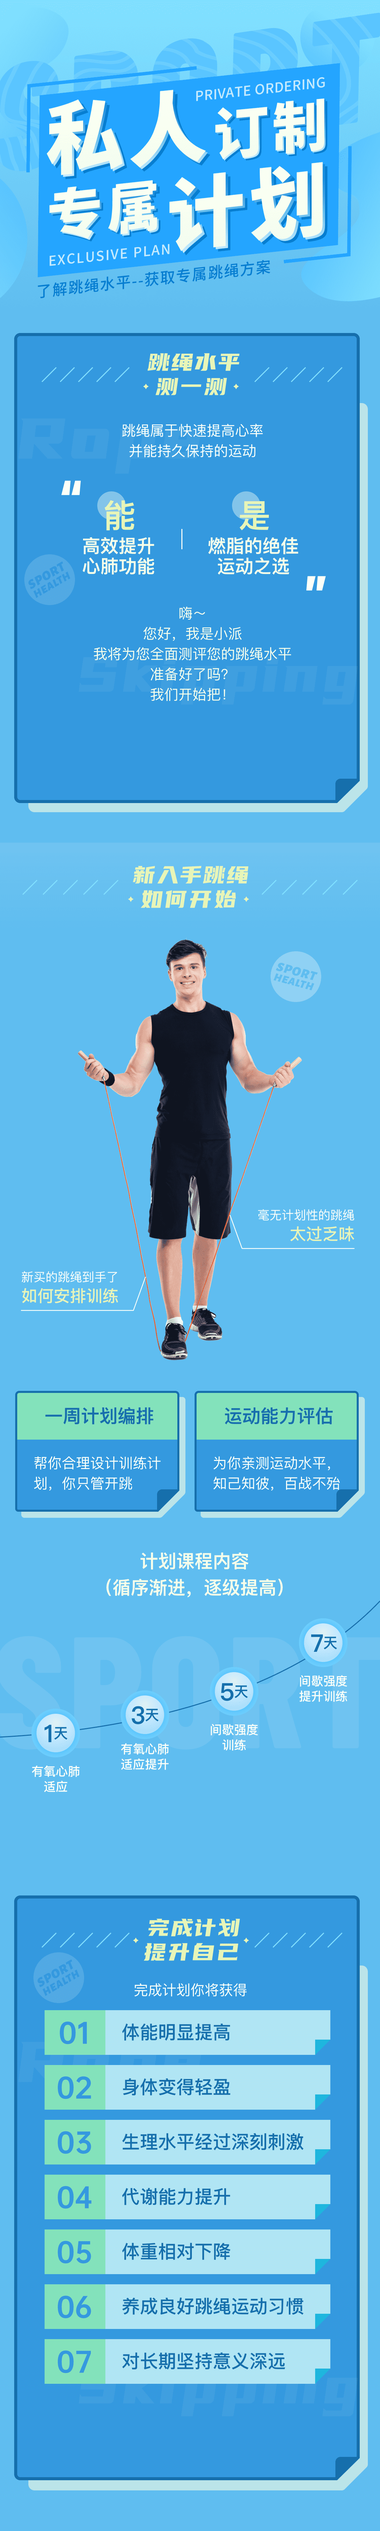
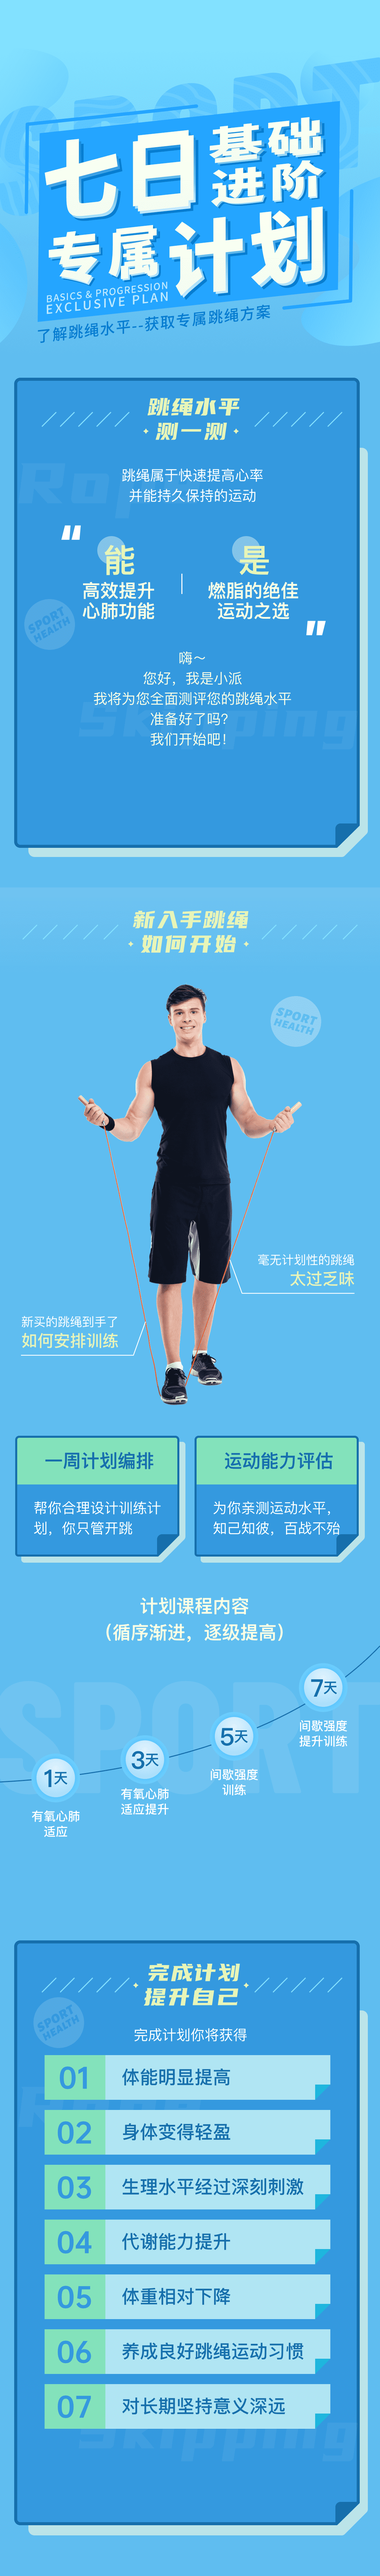
cg

diff --git a/weekPlan/src/view/index.vue b/weekPlan/src/view/index.vue
@@ -22,7 +22,8 @@
 <script>
     const defaultSettings = require('../settings.js');
     import {
-        NavBar,Toast
+        NavBar,
+        Toast
     } from 'vant';
     import {
         isAndroid,
@@ -32,6 +33,7 @@
         getIndexData,
         getClassPlan
     } from '@a/api'
+    import { getQueryString } from "@u/tool";
     export default {
         components: {
             [NavBar.name]: NavBar,
@@ -68,7 +70,12 @@
             window.addEventListener('scroll', this.scrollFn);
         },
         created() {
-            this.initData();
+            if(getQueryString('isShare')){
+                this.params.bf2 = this.params.bf3 = true;
+            }else{
+               this.initData(); 
+            }
+            
         },
         beforeRouteLeave(to, from, next) {
             this.destroyed();
@@ -113,7 +120,7 @@
                         /**
                          * 再次测试完成
                          */
-                        this.params.bt1 = '查看测试报告';
+                        this.params.bt1 = '查看再次测试报告';
                         this.params.bt2 = '查看专属课程';
                         this.params.bf3 = true;
                     }
@@ -142,12 +149,36 @@
             },
             shareWeekPlan() {
                 this.$interaction.sharePage({
-                    title: "专属计划",
-                    description: "快来一起创建专属计划",
+                    title: "快来一起制定您的专属计划",
+                    description: "跳绳水平测一测，私人定制专属计划",
                     url: defaultSettings.host + 'h5/h5V2/weekPlan/#/index?isShare=1'
                 })
             },
+            goInto() {
+				let linkUrl = '';
+				if (/(iPhone|iPad|iPod|iOS)/i.test(navigator.userAgent)) { //判断iPhone|iPad|iPod|iOS
+					linkUrl = "https://lstemp.laisitech.com?actionType=weekplan"
+				} else if (/(Android)/i.test(navigator.userAgent)) { //判断Android
+					if (navigator.userAgent.toLowerCase().indexOf('micromessenger') !== -1) { //微信
+						linkUrl = "https://a.app.qq.com/o/simple.jsp?pkgname=com.lstech.rehealth"
+					} else {
+						linkUrl = "rehealth://weekplan"
+					}
+				}
+				var a = document.createElement('a');
+				a.setAttribute('href', linkUrl);
+				a.setAttribute('id', 'js_a');
+				//防止反复添加
+				if (document.getElementById('js_a')) {
+					document.body.removeChild(document.getElementById('js_a'));
+				}
+				document.body.appendChild(a);
+				a.click();
+			},
             startTest() {
+                 if(getQueryString('isShare')){
+                     this.goInto()
+                 }
                 if (!this.finished) return;
                 //前去测评
                 if (this.statusCode == '0001') {
@@ -177,12 +208,15 @@
             getPlan() {
                 //前去训练计划
                 if (this.statusCode == "0001" && this.finished) {
+                    Toast({
+                        message: "您还未进行测评",
+                    });
                     return
                 }
                 if (this.statusCode == "0002" && this.finished) {
                     getClassPlan({
-                        memberId:JSON.parse(localStorage.getItem("appInfo")).memberId,
-                        userId:JSON.parse(localStorage.getItem("appInfo")).userId,
+                        memberId: JSON.parse(localStorage.getItem("appInfo")).memberId,
+                        userId: JSON.parse(localStorage.getItem("appInfo")).userId,
                     }).then(res => {
                         if (res.code == 0) {
                             Toast({
@@ -195,7 +229,7 @@
                     })
                     return
                 }
-                if (this.statusCode == "0003" && this.finished) {
+                if ((this.statusCode == "0003" || this.statusCode == "0004") && this.finished) {
                     if (isIOS) {
                         window.webkit.messageHandlers.lstNative.postMessage({
                             method: "LSTH5APP_goToTrainingCourses",
@@ -208,8 +242,17 @@
             },
 
             againTest() {
+                if (this.statusCode == "0001" && this.finished) {
+                    Toast({
+                        message: "您还未进行测评",
+                    });
+                    return
+                }
                 //0004 的时候允许二次测评
                 if (this.statusCode != "0004" && this.finished) {
+                    Toast({
+                        message: "您还未完成七日计划",
+                    });
                     return
                 }
                 if (isIOS) {
@@ -223,8 +266,8 @@
             }
 
         }
-        
-        
+
+
     };
 </script>
 <style scoped>

diff --git a/weekPlan/src/view/share.vue b/weekPlan/src/view/share.vue
@@ -18,6 +18,9 @@
 			<div class="fts14">{{chartData.resultDes}}</div>
 			<div class="fts12">声明：所有的数据仅供参考，不建议以此数据作为医疗或者健康状况的判断依据。</div>
 		</div>
+		<div>
+			<div class="buttonTry" @click="goInto">我也试试</div>
+		</div>
 	</div>
 </template>
 
@@ -108,6 +111,27 @@
 				}).catch(() => {
 					console.log("error")
 				})
+			},
+			 goInto() {
+				let linkUrl = '';
+				if (/(iPhone|iPad|iPod|iOS)/i.test(navigator.userAgent)) { //判断iPhone|iPad|iPod|iOS
+					linkUrl = "https://lstemp.laisitech.com?actionType=weekplan"
+				} else if (/(Android)/i.test(navigator.userAgent)) { //判断Android
+					if (navigator.userAgent.toLowerCase().indexOf('micromessenger') !== -1) { //微信
+						linkUrl = "https://a.app.qq.com/o/simple.jsp?pkgname=com.lstech.rehealth"
+					} else {
+						linkUrl = "rehealth://weekplan"
+					}
+				}
+				var a = document.createElement('a');
+				a.setAttribute('href', linkUrl);
+				a.setAttribute('id', 'js_a');
+				//防止反复添加
+				if (document.getElementById('js_a')) {
+					document.body.removeChild(document.getElementById('js_a'));
+				}
+				document.body.appendChild(a);
+				a.click();
 			},
 			initEchart(data) {
 				// 基于准备好的dom，初始化echarts实例
@@ -213,5 +237,17 @@
 		width: 100%;
 		height: 5.3rem;
 		border-bottom: .2rem solid #f5f5f5;
+	}
+
+	.buttonTry{
+		width: 6.3rem;
+		height: 0.88rem;
+		color: #fff;
+		font-size: 0.36rem;
+		line-height: 0.88rem;
+		text-align: center;
+		background-image: linear-gradient(to right, #FF6A88 ,#FF5136);
+		margin: 1rem auto;
+		border-radius: 0.44rem;
 	}
 </style>

diff --git a/weekPlan/src/view/shareBar.vue b/weekPlan/src/view/shareBar.vue
@@ -23,6 +23,9 @@
 				</li>
 			</ul>
 			<div class="fts12">声明：所有的数据仅供参考，不建议以此数据作为医疗或者健康状况的判断依据。</div>
+			<div>
+			<div class="buttonTry" @click="goInto">我也试试</div>
+		</div>
 		</div>
 	</div>
 </template>
@@ -99,6 +102,27 @@
 						console.log(this.nwArr)
 					}).catch(() => {})
 				}).catch(() => {})
+			},
+			goInto() {
+				let linkUrl = '';
+				if (/(iPhone|iPad|iPod|iOS)/i.test(navigator.userAgent)) { //判断iPhone|iPad|iPod|iOS
+					linkUrl = "https://lstemp.laisitech.com?actionType=weekplan"
+				} else if (/(Android)/i.test(navigator.userAgent)) { //判断Android
+					if (navigator.userAgent.toLowerCase().indexOf('micromessenger') !== -1) { //微信
+						linkUrl = "https://a.app.qq.com/o/simple.jsp?pkgname=com.lstech.rehealth"
+					} else {
+						linkUrl = "rehealth://weekplan"
+					}
+				}
+				var a = document.createElement('a');
+				a.setAttribute('href', linkUrl);
+				a.setAttribute('id', 'js_a');
+				//防止反复添加
+				if (document.getElementById('js_a')) {
+					document.body.removeChild(document.getElementById('js_a'));
+				}
+				document.body.appendChild(a);
+				a.click();
 			},
 			returnColorBar(num){
 				return num>100?100:num;
@@ -192,5 +216,16 @@
 				}
 			}
 		}
+	}
+	.buttonTry{
+		width: 6.3rem;
+		height: 0.88rem;
+		color: #fff;
+		font-size: 0.36rem;
+		line-height: 0.88rem;
+		text-align: center;
+		background-image: linear-gradient(to right, #FF6A88 ,#FF5136);
+		margin: 1rem auto;
+		border-radius: 0.44rem;
 	}
 </style>

diff --git a/weekPlan/public/index.html b/weekPlan/public/index.html
@@ -6,12 +6,12 @@
     <meta name="viewport" content="width=device-width, initial-scale=1.0, maximum-scale=1.0, minimum-scale=1.0, viewport-fit=cover">
     <link rel="icon" href="<%= BASE_URL %>favicon.ico">
     <title>weekPlan</title>
-    <!-- <script src="https://cdn.bootcss.com/vConsole/3.3.4/vconsole.min.js"></script>
+    <script src="https://cdn.bootcss.com/vConsole/3.3.4/vconsole.min.js"></script>
 		<script>
       
          var vConsole = new VConsole();
       
-		</script> -->
+		</script>
   </head>
   <body>
     <div id="app"></div>

diff --git a/weekPlan/src/styles/weekPlan.scss b/weekPlan/src/styles/weekPlan.scss
@@ -50,7 +50,7 @@
     height: 51.6rem;
     width: 100%;
     // background-image: url('../assets/img/homepage.png');
-    background-image: url('https://oss.laisitech.com/f275dcac-28f0-4759-960f-f2e87ffb6e97.png');
+    background-image: url('https://oss.laisitech.com/65929110-eeed-4b48-a5a1-b7ffeae23427.png');
     background-size: cover;
     background-position: center center;
     position: relative;
